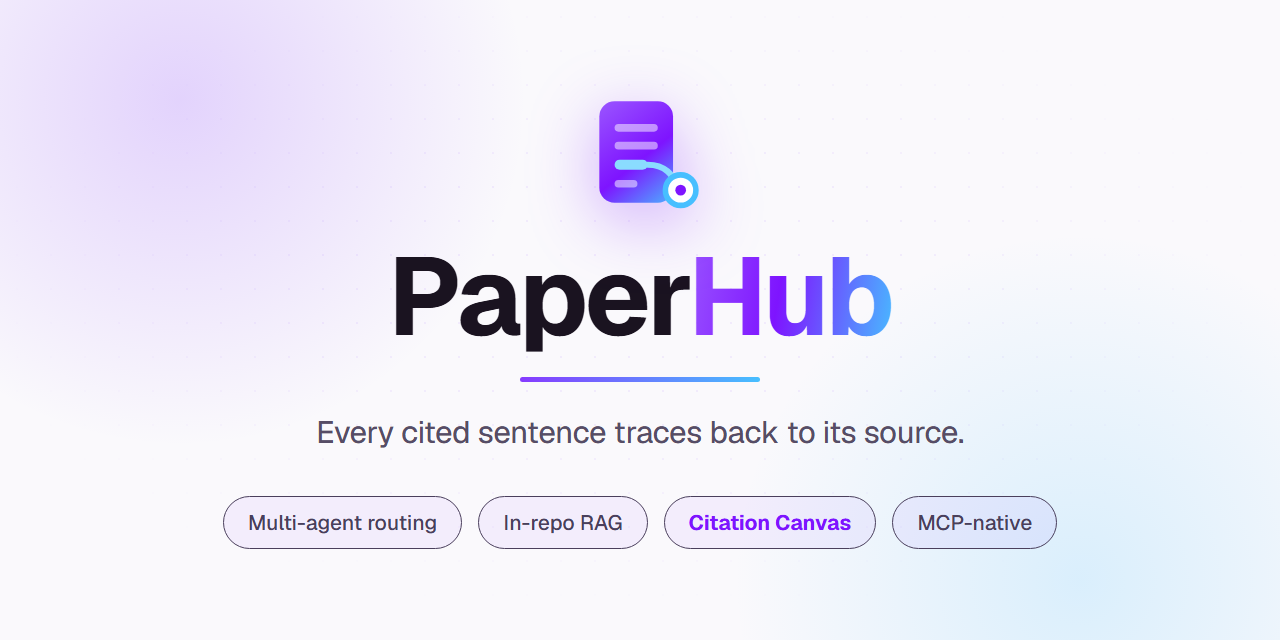
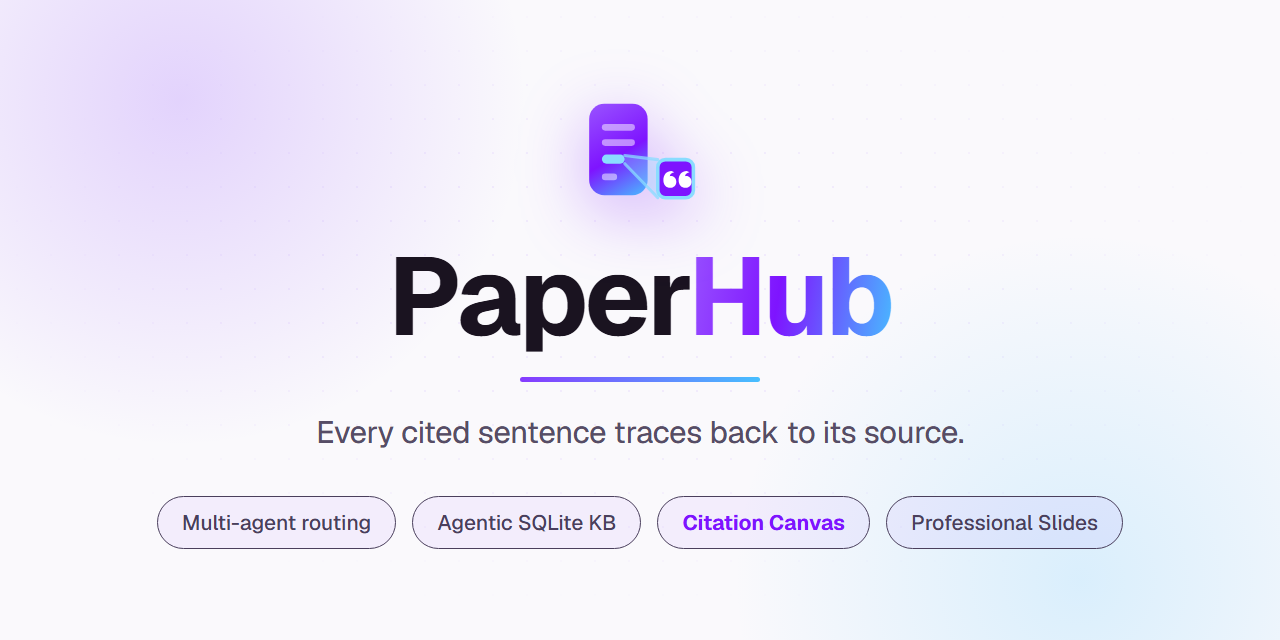
chore(branding): refresh social-preview card to the citation-zoom mark
Update mark.svg + the card.html inline glyph to the new favicon art
(paper -> zoom beam -> quotation dialog) and re-render both PNGs.
Refresh the pill row to match current scope: "In-repo RAG" ->
"Agentic SQLite KB" (v2.27 dropped the vector store) and "MCP-native"
-> "Professional Slides" (the Plan F slide pipeline). Citation Canvas
stays highlighted.

Changed region(s): [[0.125, 0.7812, 0.875, 0.8438], [0.4375, 0.1562, 0.5625, 0.3438]]

diff --git a/.github/social-preview/card.html b/.github/social-preview/card.html
@@ -68,28 +68,29 @@
   <div class="stage">
     <svg class="glyph" viewBox="0 0 48 48" fill="none" xmlns="http://www.w3.org/2000/svg">
       <defs>
-        <linearGradient id="pg" x1="8" y1="4" x2="40" y2="44" gradientUnits="userSpaceOnUse">
+        <linearGradient id="pg" x1="4" y1="4" x2="26" y2="42" gradientUnits="userSpaceOnUse">
           <stop stop-color="#9a55ff"/><stop offset=".55" stop-color="#7e14ff"/><stop offset="1" stop-color="#47bfff"/>
         </linearGradient>
       </defs>
-      <rect x="8" y="4" width="29" height="40" rx="6" fill="url(#pg)"/>
-      <rect x="14" y="13" width="17" height="3" rx="1.5" fill="#fff" opacity=".5"/>
-      <rect x="14" y="20" width="17" height="3" rx="1.5" fill="#fff" opacity=".5"/>
-      <rect x="14" y="27" width="13" height="4" rx="2" fill="#8adcff"/>
-      <rect x="14" y="35" width="9" height="3" rx="1.5" fill="#fff" opacity=".5"/>
-      <path d="M27 29 C 34 29, 37 33, 39 38" stroke="#8adcff" stroke-width="2.4" stroke-linecap="round"/>
-      <circle cx="40" cy="39" r="6" fill="#fff"/>
-      <circle cx="40" cy="39" r="6" fill="none" stroke="#47bfff" stroke-width="2.2"/>
-      <circle cx="40" cy="39" r="2.1" fill="#7e14ff"/>
+      <rect x="4" y="5" width="23" height="36" rx="6" fill="url(#pg)"/>
+      <rect x="9" y="13" width="13" height="2.6" rx="1.3" fill="#fff" opacity=".5"/>
+      <rect x="9" y="19" width="13" height="2.6" rx="1.3" fill="#fff" opacity=".5"/>
+      <rect x="9" y="25" width="9" height="3.6" rx="1.8" fill="#8adcff"/>
+      <rect x="9" y="32.5" width="6" height="2.6" rx="1.3" fill="#fff" opacity=".5"/>
+      <path d="M18 25.4 L 31 27 L 31 42 L 18 28.6 Z" fill="#8adcff" opacity=".3"/>
+      <path d="M18 25.4 L 31 27 M18 28.6 L 31 42" stroke="#8adcff" stroke-width="1.2" stroke-linecap="round" opacity=".75"/>
+      <rect x="31" y="27" width="14" height="15" rx="3" fill="#7e14ff" stroke="#8adcff" stroke-width="1.4"/>
+      <path d="M36.4 31.5 c-2 0 -3.2 1.5 -3.2 3.6 0 1.8 1.1 3 2.7 3 1.4 0 2.4 -1 2.4 -2.4 0 -1.3 -.9 -2.3 -2.1 -2.3 -.2 0 -.4 0 -.5 .1 .2 -.9 .9 -1.4 1.8 -1.5 z" fill="#fff"/>
+      <path d="M42.4 31.5 c-2 0 -3.2 1.5 -3.2 3.6 0 1.8 1.1 3 2.7 3 1.4 0 2.4 -1 2.4 -2.4 0 -1.3 -.9 -2.3 -2.1 -2.3 -.2 0 -.4 0 -.5 .1 .2 -.9 .9 -1.4 1.8 -1.5 z" fill="#fff"/>
     </svg>
     <div class="wordmark">Paper<span class="hub">Hub</span></div>
     <div class="rule"></div>
     <div class="tagline">Every cited sentence traces back to its source.</div>
     <div class="pills">
       <div class="pill">Multi-agent routing</div>
-      <div class="pill">In-repo RAG</div>
+      <div class="pill">Agentic SQLite KB</div>
       <div class="pill"><b>Citation Canvas</b></div>
-      <div class="pill">MCP-native</div>
+      <div class="pill">Professional Slides</div>
     </div>
   </div>
   <script>

diff --git a/.github/social-preview/README.md b/.github/social-preview/README.md
@@ -6,7 +6,7 @@ GitHub / Slack / X). 1280×640 — GitHub's recommended size.
 | File | What |
 | --- | --- |
 | `card.html` | Source layout (themeable: `?theme=dark`). Renders with the Geist webfont from the frontend deps. |
-| `mark.svg` | The PaperHub mark: a page with one highlighted **cited line** tracing down to a **provenance node** — "every cited sentence traces back to its source." Same art as `frontend/public/favicon.svg`. |
+| `mark.svg` | The PaperHub mark: a page whose highlighted **cited line** zooms out along a magnification beam into a **dialog holding a quotation mark** — the Citation Canvas (click a chunk → expand to its source). Same art as `frontend/public/favicon.svg`. |
 | `paperhub-card-light.png` | Light variant (rendered). |
 | `paperhub-card-dark.png` | Dark variant (rendered). |
 